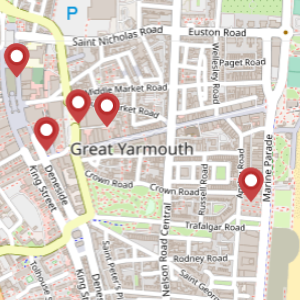
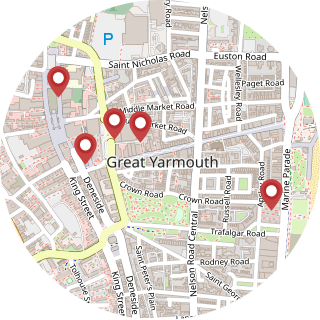
style: make preview image responsive

diff --git a/pages/index.js b/pages/index.js
@@ -8,13 +8,15 @@ const HomePage = () => {
     <Layout>
       <div className={styles.centerInPage}>
         <div className={styles.title}>Map of Festival Performances</div>
-
-        <Image
-          width={200}
-          height={200}
-          src="/map-sea.png"
-          alt="Yarmonics performance map"
-        />
+        <div className={styles.previewImage}>
+          <Image
+            width={200}
+            height={200}
+            layout="responsive"
+            src="/map-yarmouth.png"
+            alt="Yarmonics performance map"
+          />
+        </div>
 
         <p className={styles.text}>
           This map contains a growing collection of recordings from performances

diff --git a/styles/Home.module.css b/styles/Home.module.css
@@ -27,7 +27,7 @@
   }
 }
 
-.circleImage {
+.previewImage {
   width: 140px;
   height: 140px;
   border-radius: 50%;
@@ -36,7 +36,7 @@
 }
 
 @media (min-width: 600px) {
-  .circleImage {
+  .previewImage {
     width: 200px;
     height: 200px;
   }
